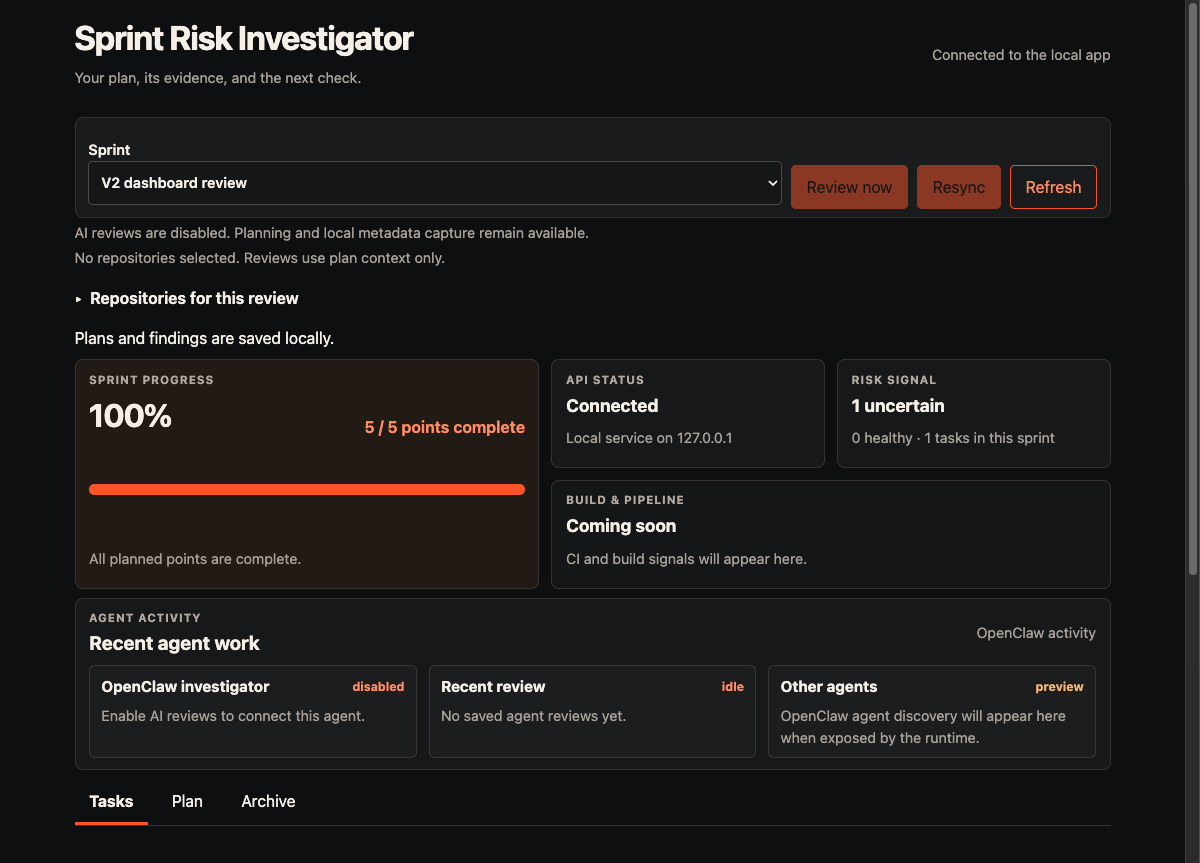
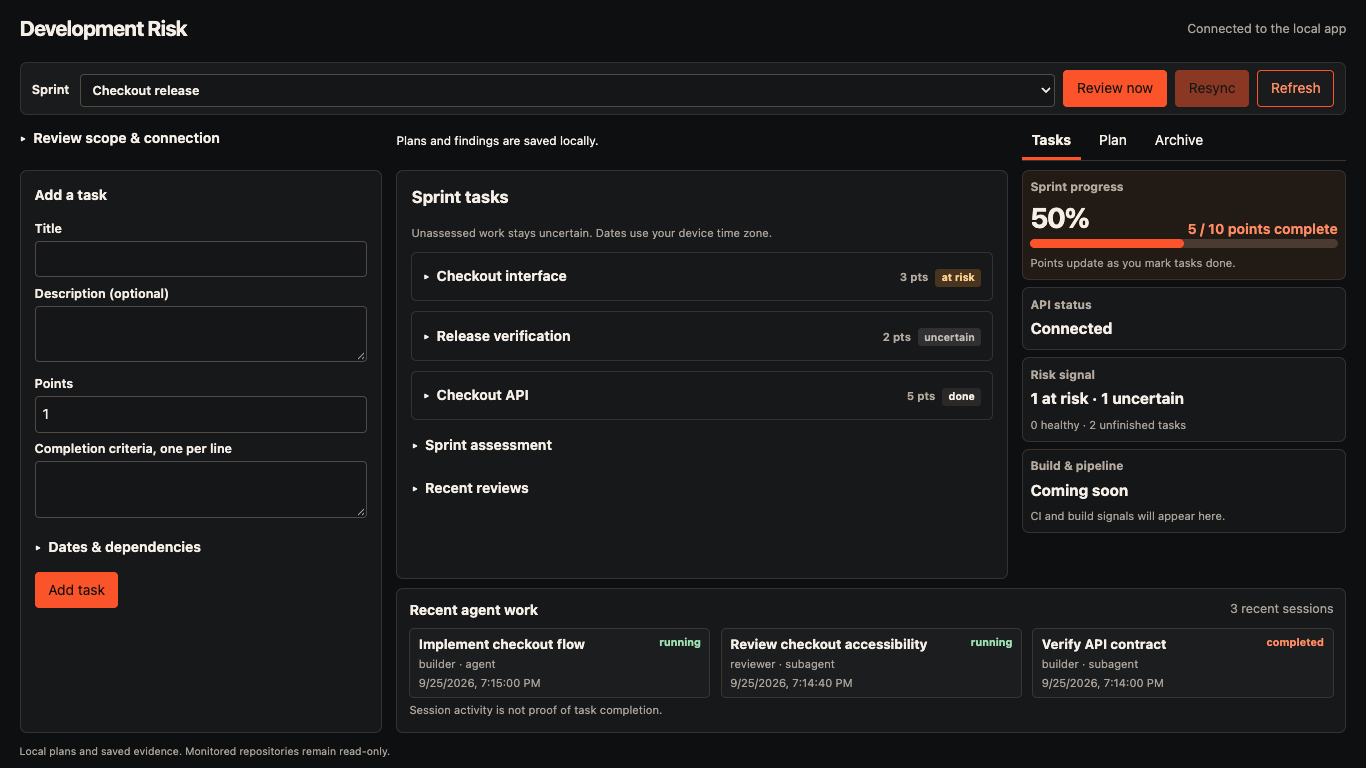
docs: show verified dashboard and agent workflow

diff --git a/README.md b/README.md
@@ -2,16 +2,16 @@
 
 A local-first agent that investigates blockers and at-risk work across one developer's sprints and repositories.
 
-- **Dashboard** — Plan sprints, tasks, and dependencies across repositories; track point progress, risk signals, and review activity. You decide when work is complete.
+- **Dashboard** — Plan tasks and dependencies; track points, risks, and your OpenClaw agents in one desktop workspace. You decide when work is complete.
 - **Git adapter** — Capture metadata from approved repositories without fetching, editing, or executing their code.
-- **OpenClaw investigator** — Follow saved evidence and report risks with citations, uncertainty, and next checks. The dashboard surfaces recent review activity and leaves room for broader OpenClaw agent discovery.
+- **OpenClaw investigator** — Follow saved evidence and report risks with citations, uncertainty, and next checks.
 - **Build pipeline** — A dashboard status area is scaffolded for future CI and build signals.
 - **SQLite** — Persist plans, evidence, and review history across sessions.
 
 <p align="center">
-  <img src="docs/images/session-reload.png" width="420" alt="Development Risk Agent dashboard showing a sprint, task risk, and review controls">
+  <img src="docs/images/dashboard-v2.png" width="1100" alt="Desktop dashboard with task planning, sprint points, risks, and OpenClaw agent activity">
 </p>
-<p align="center"><em>The dashboard keeps the plan, evidence, and next check in one place.</em></p>
+<p align="center"><em>Working local dashboard with synthetic tasks and agent sessions.</em></p>
 
 ## Quick start
 
@@ -27,6 +27,7 @@ Open the one-use sign-in link printed in the terminal.
 - **Local service:** `127.0.0.1:4317`.
 - **Saved state:** `~/.development-risk-agent`, outside monitored repositories.
 - **Fresh sign-in link:** Run `pnpm dashboard` in another terminal while the service is running.
+- **Agent activity:** Add `--openclaw-activity` to read sessions from your configured Gateway. This does not start agents or enable AI reviews.
 
 ## Enable AI reviews
 

diff --git a/docs/verification.md b/docs/verification.md
@@ -1,5 +1,29 @@
 # Local verification
 
+## V2 dashboard — September 25, 2026
+
+The built application was exercised in Chrome against temporary SQLite state and two synthetic
+Git repositories, with a scripted review provider and mock agent sessions. Checks covered:
+
+- Sprint/task creation and editing, dependencies, validation, completion, reopening, and archive rollover.
+- Repository discovery, explicit scope, metadata capture/resync, evidence viewing, review answers, feedback, and cancellation.
+- Points changing from 0% to 50% to 100%, and completed points surviving sprint archival.
+- Draft preservation during polling, session reload, persisted state after restart, and fresh sign-in.
+- Agent disconnect/recovery without disabling planning; running/completed session metadata remains separate from task completion.
+- No page overflow at 1280×720, 1366×768, 1440×900, or 1920×1080. Expanded details/long lists scroll inside panels; 390×844 uses a stacked layout without horizontal overflow.
+
+Separately, an isolated **OpenClaw 2026.7.1-2 Gateway** created a parent session and a child session
+with `runStarted: false`. The production activity adapter discovered both with the correct roles
+and idle status through the real CLI. Running/completed/error states were exercised with synthetic
+responses; this pass made no model calls. The browser console had no application errors.
+
+`pnpm check` passed **53 test files / 819 tests**; `pnpm build` passed.
+The fixtures, browser profile, processes, and temporary state were removed afterward.
+
+![Dashboard at 1366×768 with synthetic tasks and user agent sessions](images/dashboard-v2.png)
+
+![Explicit task completion updates the dashboard to 100%](images/dashboard-v2-complete.png)
+
 ## HTTP latency
 
 Run `pnpm benchmark` to build the app and measure real loopback HTTP requests against a temporary SQLite database.

diff --git a/docs/openclaw.md b/docs/openclaw.md
@@ -1,5 +1,20 @@
 # OpenClaw runtime setup
 
+## Show your agents in the dashboard
+
+Run `pnpm gateway --openclaw-activity` with your existing Gateway configuration to show recent
+agent and subagent sessions. This read-only connection is independent of the investigator below;
+both flags can be used together. It uses the same `OPENCLAW_STATE_DIR` and `OPENCLAW_CONFIG_PATH`
+environment as the OpenClaw CLI, so select the Gateway that owns the sessions you want to see.
+
+- Reads at most 30 recent sessions with `sessions.list`, refreshed every 15 seconds.
+- Reads labels, parent relationships, update times, and runtime status; never transcripts.
+- Excludes this application's internal investigation sessions.
+- Uses the Gateway's active-run flag for running status, and explicit saved outcomes for completed/failed sessions. Recency alone does not establish liveness or task completion.
+- Shows an unavailable state on connection or format errors; planning remains usable.
+
+## Enable the investigator
+
 This adapter supports **OpenClaw 2026.7.1-2**. It checks the installed version, creates a fresh session, and checks that the session's effective inventory contains exactly the four `development-risk` plugin tools before requesting an agent turn. It uses `gateway call agent --expect-final`; the ordinary `openclaw agent` command in this version can fall back to an embedded runtime with a different tool policy.
 
 Build the local application first:

diff --git a/docs/design.md b/docs/design.md
@@ -167,6 +167,15 @@ An answer is stored as user evidence and atomically queues a follow-up with an e
 
 ## Dashboard behavior
 
+The desktop workspace places task entry on the left, sprint tasks in the center, risk/progress
+on the right, and user agent activity below. The page fits common desktop viewports; expanded
+details and long lists scroll within their panels. Small screens use a stacked layout.
+Review cadence is developer policy and is not exposed as a dashboard setting.
+
+An opt-in `AgentActivityPort` reads bounded session metadata from OpenClaw through a separate,
+cached adapter. It never starts agent turns, reads transcripts, or supplies investigation evidence.
+User agents and subagents appear here; internal investigator history stays with recent reviews.
+
 Tasks are ordered by risk, then their dependents and deadlines.
 The dashboard shows the current cited assessment, its age, coverage gaps, uncertainty, and next check.
 Users can inspect saved evidence, correct or dismiss findings, edit plans, explicitly complete tasks, and revisit archived work.
